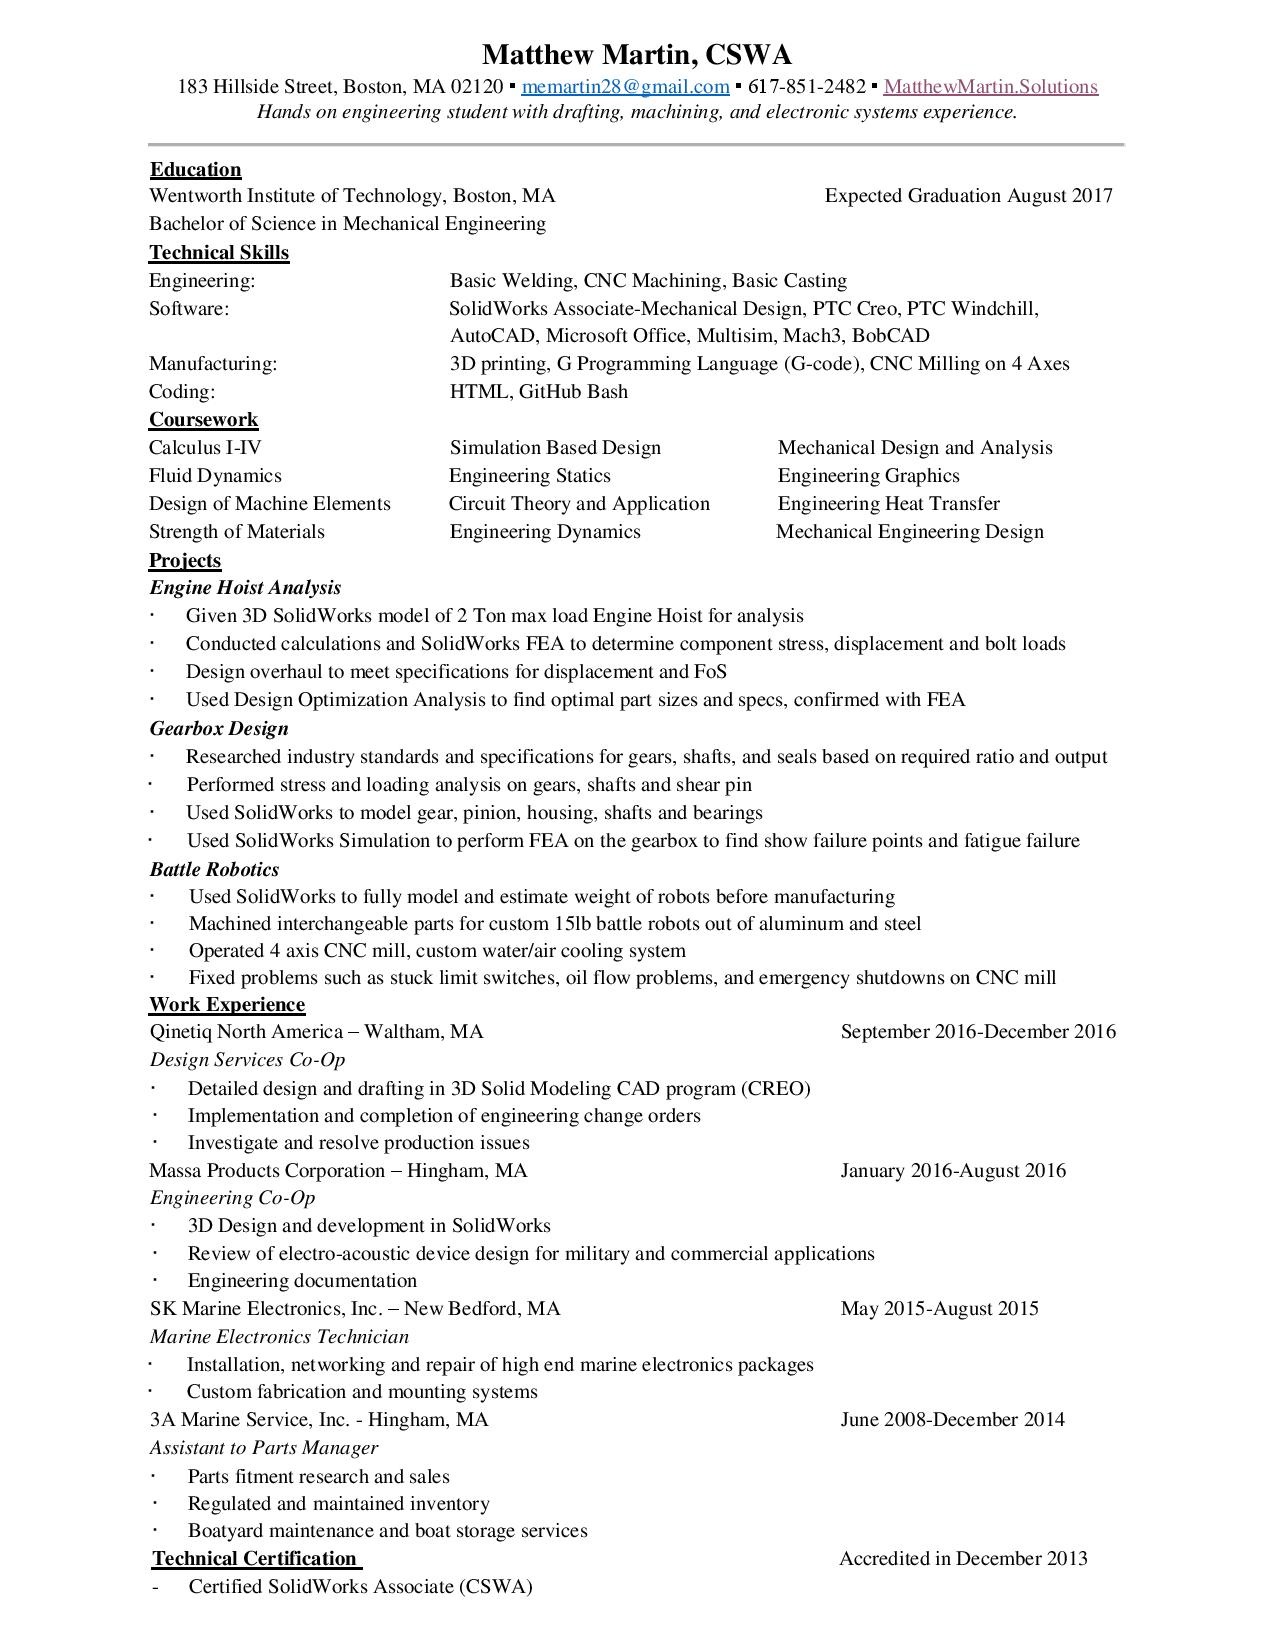
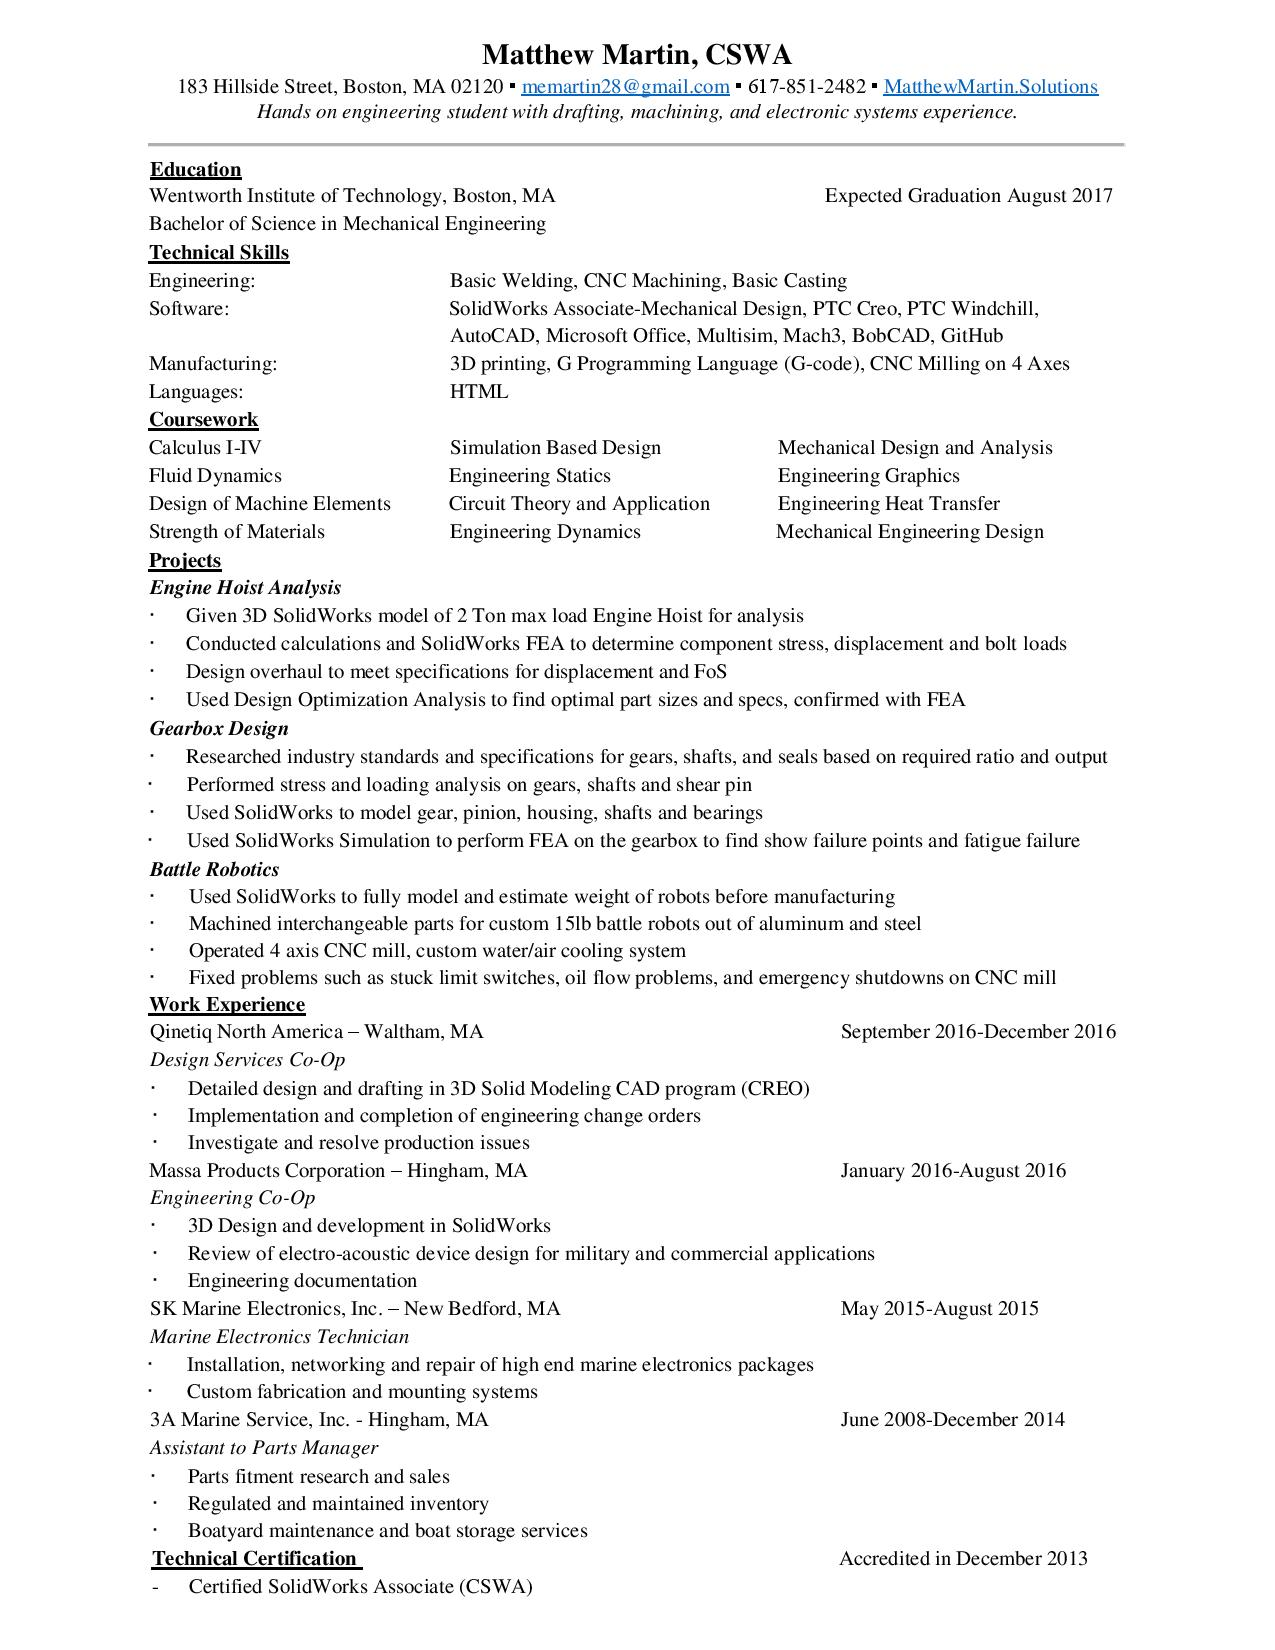
start work on about page, update resume and resume jpg

diff --git a/about.html b/about.html
@@ -82,7 +82,7 @@
             <div class="parallax-content container">
                 <div class="strokeme">
                 <h1 class="carousel-title">About Me</h1>
-                <p><font color="white">Lorem ipsum dolor amet consectetur adipiscing dolore magna aliqua <br/> enim minim estudiat veniam siad venumus dolore</font></p>
+                <p><font color="white">A little about me, the Mech Eng student that attempted to learn enough HTML to make a website</font></p>
                 </div>
             </div>
 
@@ -94,7 +94,6 @@
             <p>Under Contruction</p>
         </div>    
         <!-- Features -->
-        <!--
         <div class="section-seperator">
             <div class="content-lg container">
                 <div class="row">
@@ -125,7 +124,7 @@
         </div>
         <!-- End Features -->
 
-        <!-- About --><!--
+        <!-- About -->
         <div class="content-lg container">
             <div class="row margin-b-20">
                 <div class="col-sm-6">
@@ -133,7 +132,6 @@
                 </div>
             </div>
             <!--// end row -->
-<!--
             <div class="row">
                 <div class="col-sm-7 sm-margin-b-50">
                     <div class="margin-b-30">
@@ -149,7 +147,7 @@
         </div>
         <!-- End About -->
 
-        <!-- Service --><!--
+        <!-- Service -->
         <div class="bg-color-sky-light" data-auto-height="true">
             <div class="content-lg container">
                 <div class="row row-space-1 margin-b-2">
@@ -197,7 +195,6 @@
                     </div>
                 </div>
                 <!--// end row -->
-<!--
                 <div class="row row-space-1">
                     <div class="col-sm-4 sm-margin-b-2">
                         <div class="wow fadeInLeft" data-wow-duration=".3" data-wow-delay=".4s">
@@ -246,15 +243,15 @@
             </div>
         </div>
         <!-- End Service -->
-        <!-- Testimonials --><!--
+        <!-- Testimonials -->
         <div class="content-lg container">
             <div class="row">
                 <div class="col-sm-9">
                     <h2>Notes From CEO</h2>
 
-                    <!-- Swiper Testimonials --><!--
+                    <!-- Swiper Testimonials -->
                     <div class="swiper-slider swiper-testimonials">
-                        <!-- Swiper Wrapper --><!--
+                        <!-- Swiper Wrapper -->
                         <div class="swiper-wrapper">
                             <div class="swiper-slide">
                                 <blockquote class="blockquote">
@@ -281,7 +278,7 @@
                         </div>
                         <!-- End Swiper Wrapper -->
 
-                        <!-- Pagination --><!--
+                        <!-- Pagination -->
                         <div class="swiper-testimonials-pagination"></div>
                     </div>
                     <!-- End Swiper Testimonials -->
@@ -291,7 +288,7 @@
         </div>
         <!-- End Testimonials -->
 
-        <!-- Team --><!--
+        <!-- Team -->
         <div class="bg-color-sky-light">
             <div class="content-lg container">
                 <div class="row margin-b-40">
@@ -303,7 +300,7 @@
                 <!--// end row -->
 
                 <div class="row">
-                    <!-- Team --><!--
+                    <!-- Team -->
                     <div class="col-sm-4 sm-margin-b-50">
                         <div class="bg-color-white margin-b-20">
                             <div class="wow zoomIn" data-wow-duration=".3" data-wow-delay=".1s">
@@ -316,7 +313,7 @@
                     </div>
                     <!-- End Team -->
 
-                    <!-- Team --><!--
+                    <!-- Team -->
                     <div class="col-sm-4 sm-margin-b-50">
                         <div class="bg-color-white margin-b-20">
                             <div class="wow zoomIn" data-wow-duration=".3" data-wow-delay=".1s">
@@ -329,7 +326,7 @@
                     </div>
                     <!-- End Team -->
 
-                    <!-- Team --><!--
+                    <!-- Team -->
                     <div class="col-sm-4 sm-margin-b-50">
                         <div class="bg-color-white margin-b-20">
                             <div class="wow zoomIn" data-wow-duration=".3" data-wow-delay=".1s">
